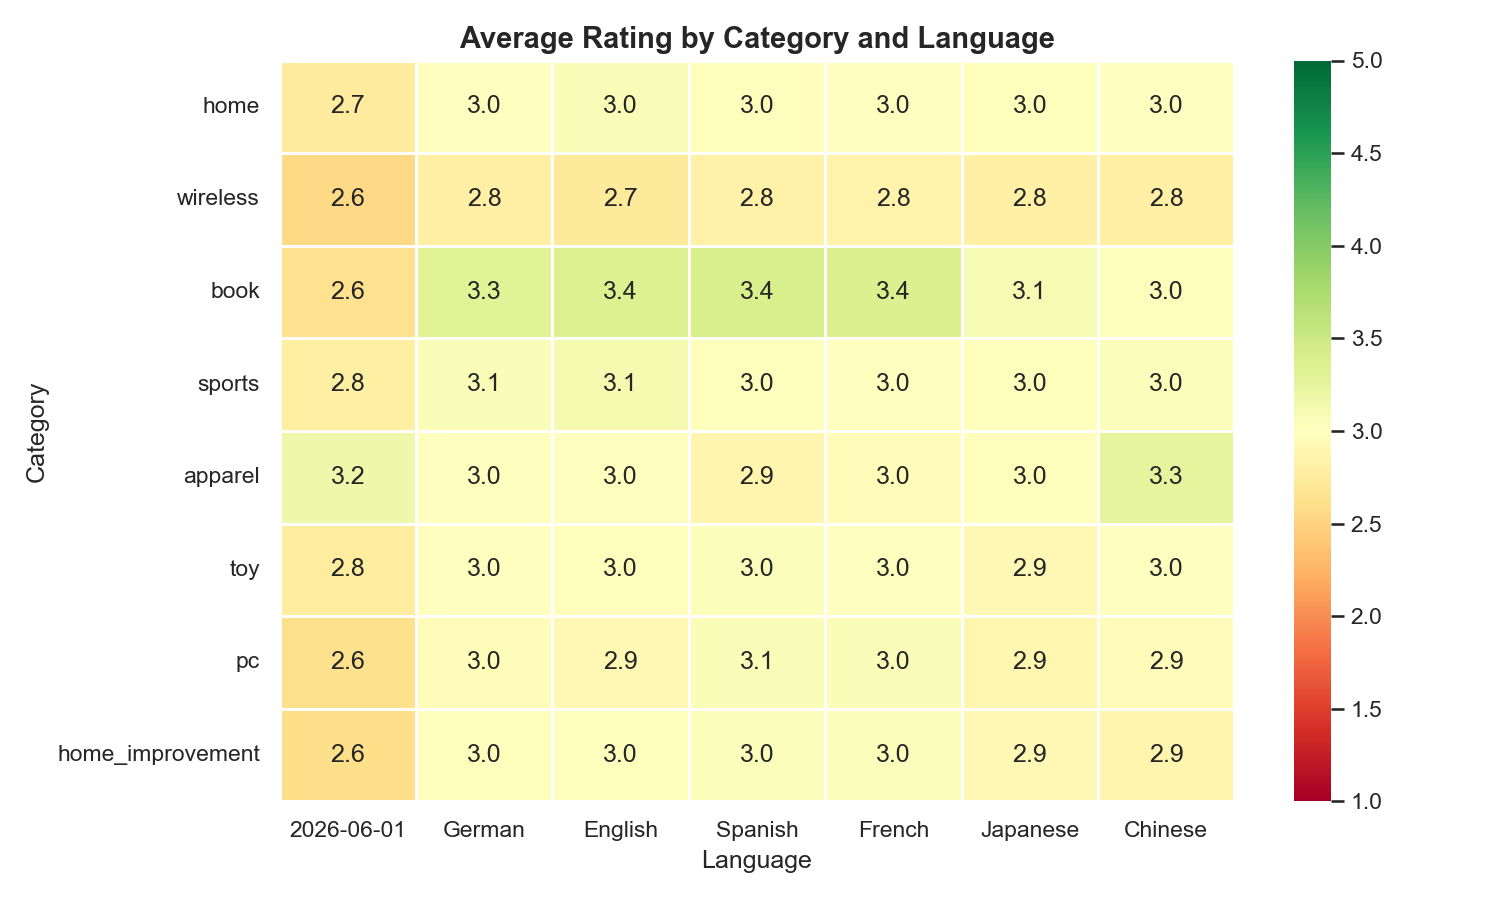
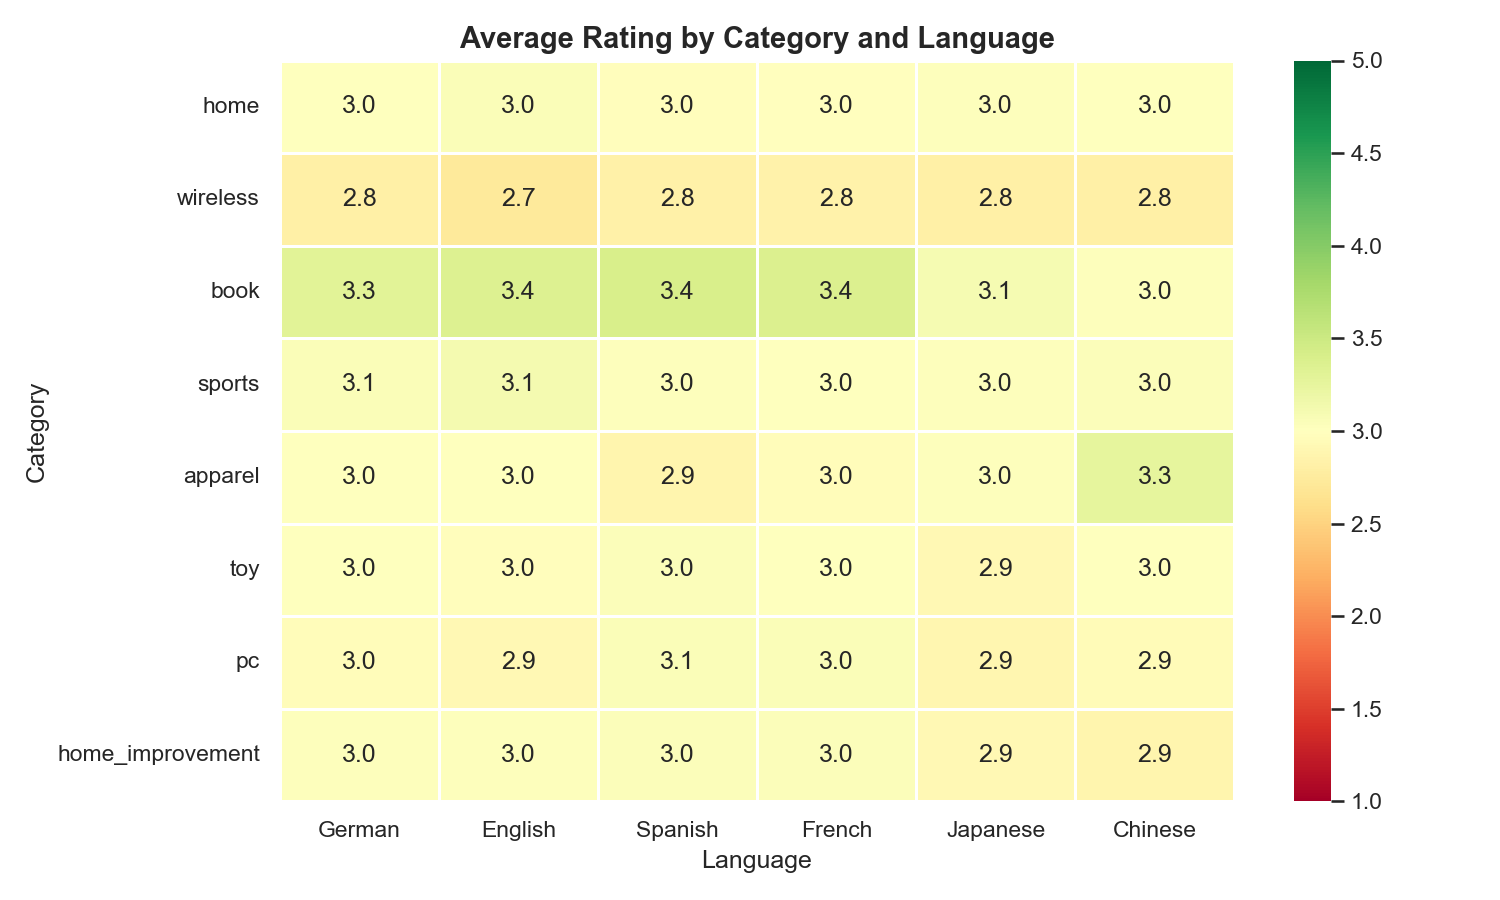
fix: Q7 language 컬럼 날짜 오염 제거 및 plot8 한글 폰트 깨짐 수정

diff --git a/spark_analysis.py b/spark_analysis.py
@@ -119,6 +119,7 @@ def run_sql_analyses(spark, df):
                 ROUND(AVG(CAST(rating AS DOUBLE)), 2) AS avg_rating,
                 COUNT(*) AS review_count
             FROM reviews
+            WHERE language RLIKE '^[a-z]{2}$'
             GROUP BY category, language
             HAVING COUNT(*) >= 3
             ORDER BY category, language
@@ -202,7 +203,7 @@ def run_ml(spark, df):
     metrics.to_csv(f"{OUTPUT_DIR}/analysis_model_metrics.csv", index=False)
 
     lr_model = model.stages[-1]
-    feature_names = ["카테고리(인덱스)", "언어(인덱스)", "리뷰 길이"]
+    feature_names = ["Category (Index)", "Language (Index)", "Review Length"]
     coef_df = pd.DataFrame({
         "feature":     feature_names,
         "coefficient": list(lr_model.coefficients),
